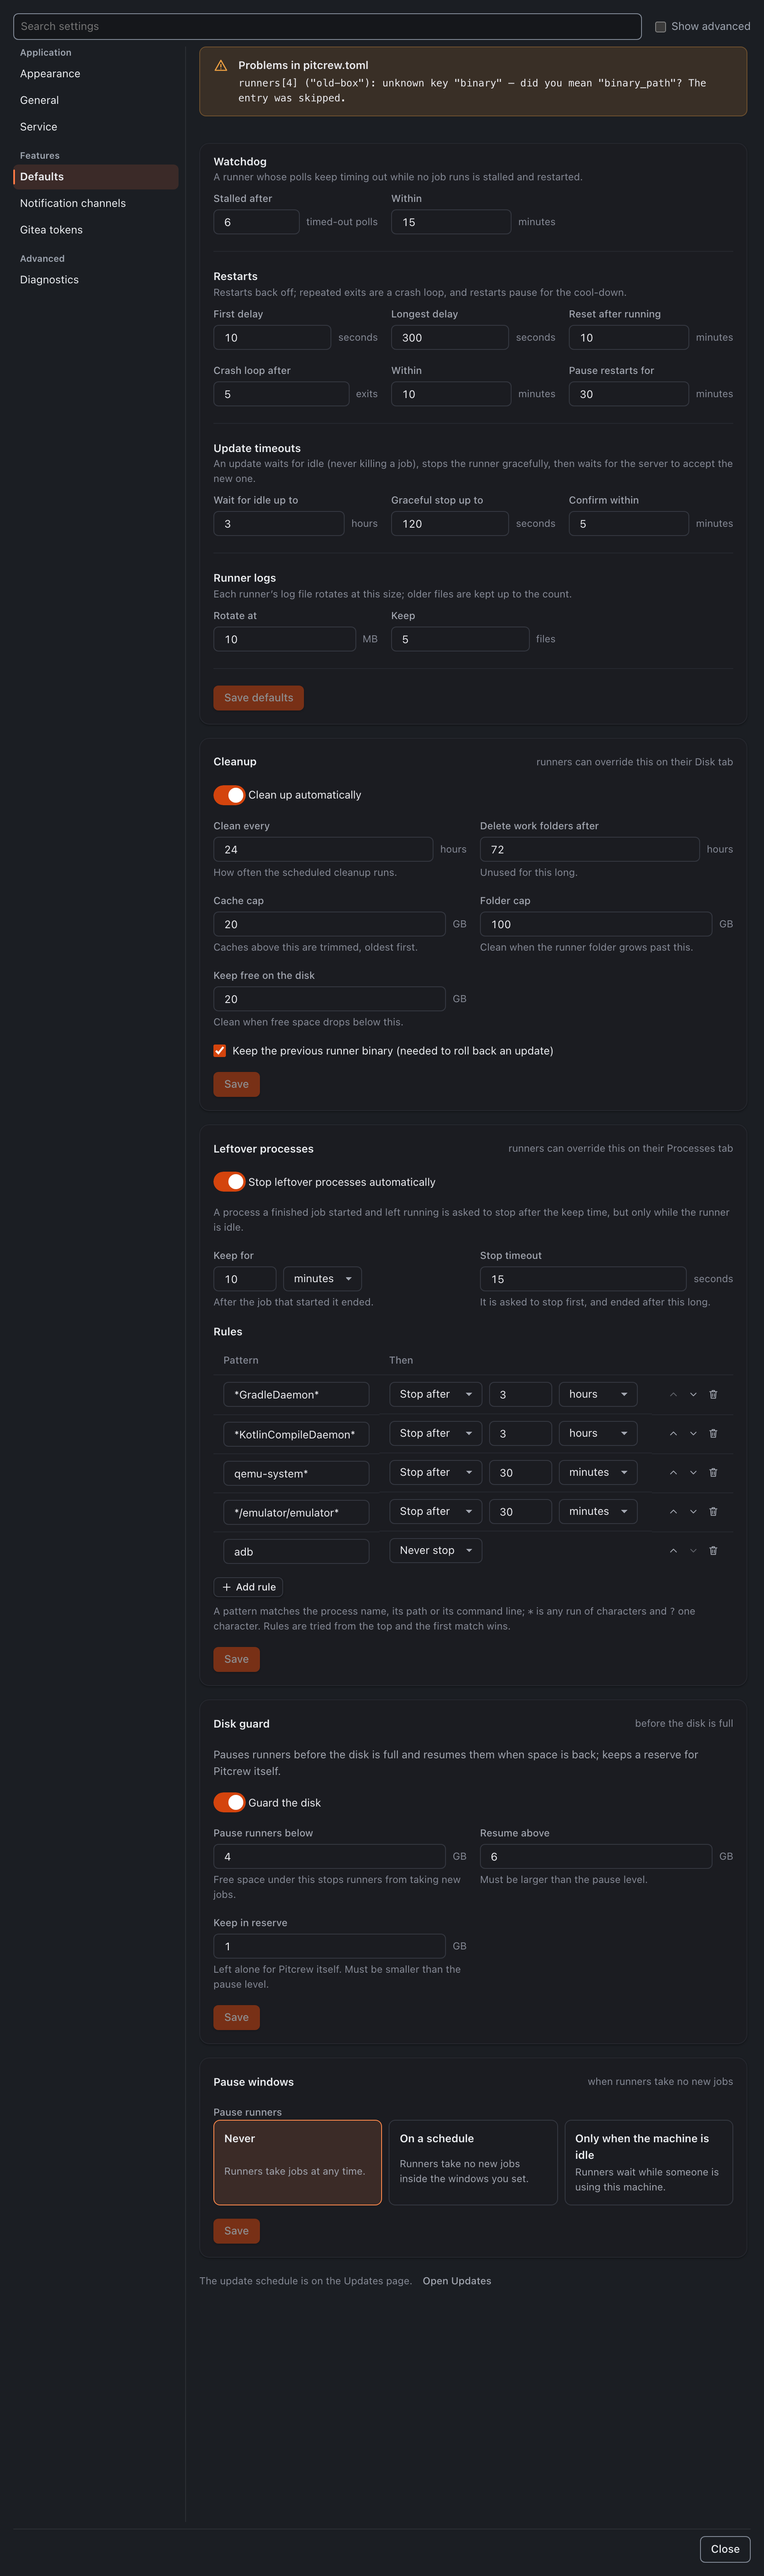
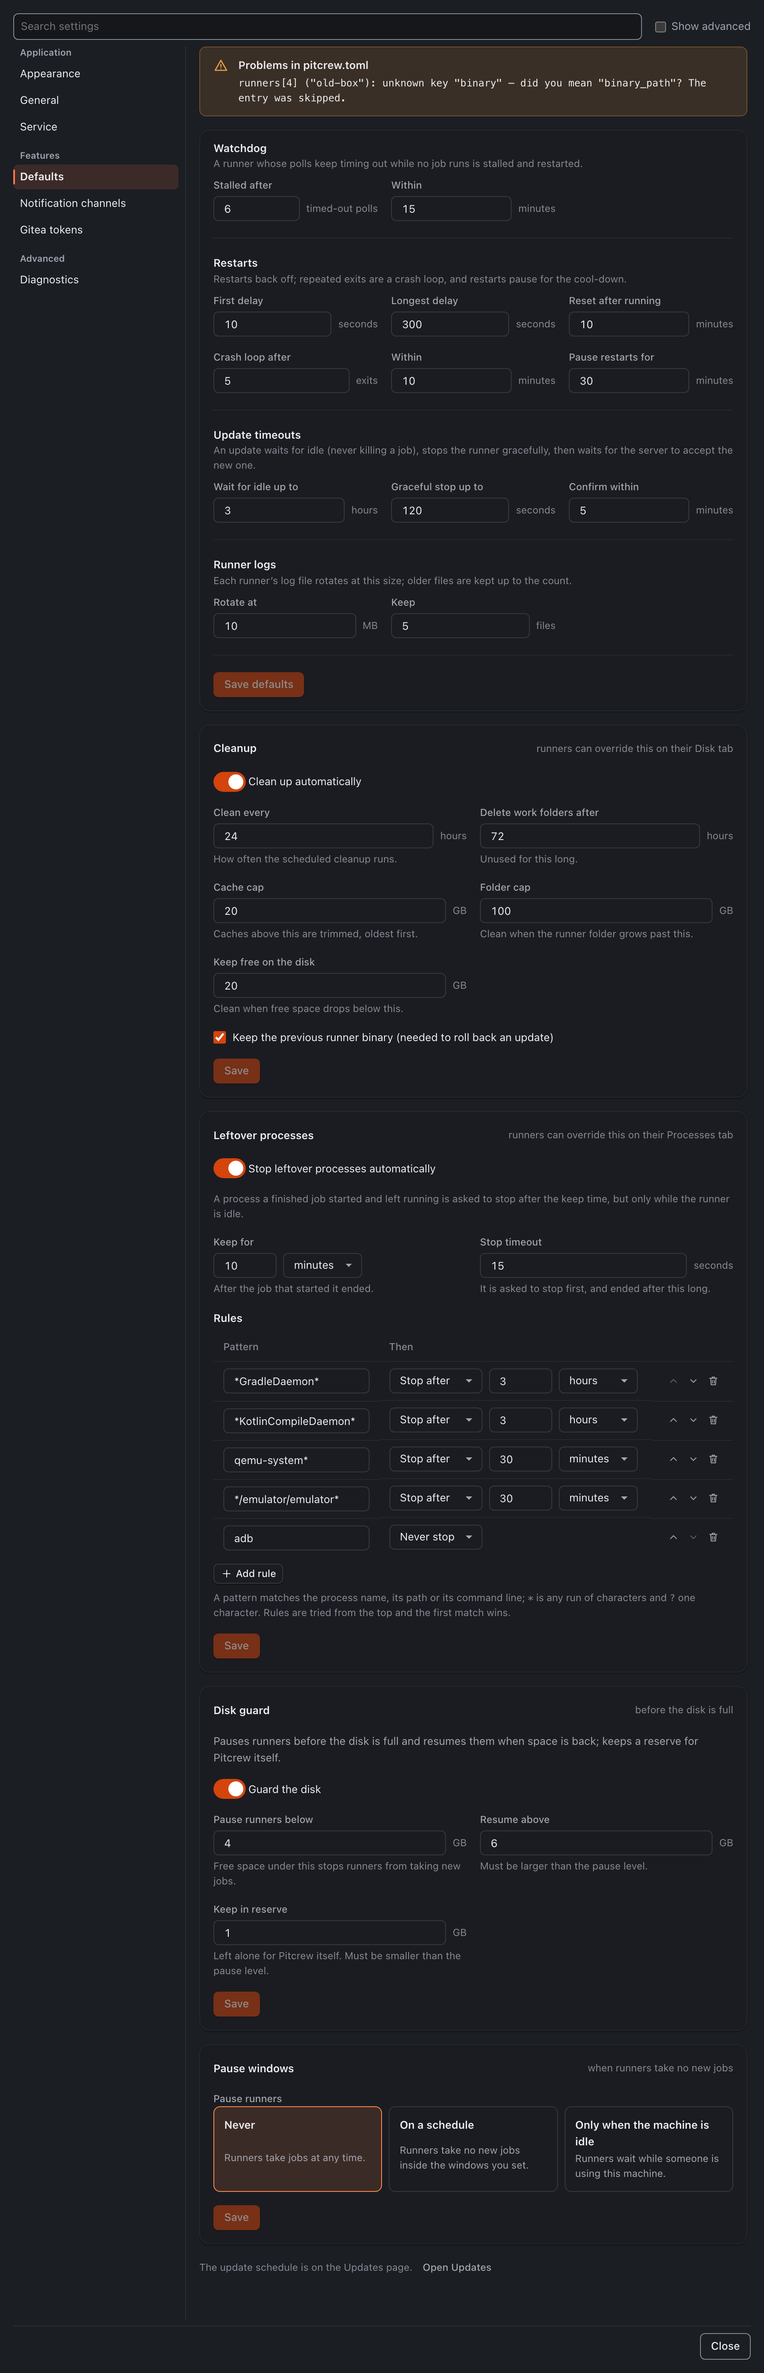
docs(pitcrew): the Defaults shot is fitted to its content; its captions say what it shows

diff --git a/apps/pitcrew/app/e2e/screenshots.spec.ts b/apps/pitcrew/app/e2e/screenshots.spec.ts
@@ -26,12 +26,12 @@ interface Shot {
  * Waits until the page has all its content: the main scroller's height is the same on several looks in a row (a runner's tab
  * fills in after its data arrives and a skeleton is not always on screen), so the whole page is what `fullPage: 'main'` measures.
  */
-async function contentSettled(page: Page): Promise<void> {
+async function contentSettled(page: Page, selector?: string): Promise<void> {
   let last = -1;
   let same = 0;
   await expect
     .poll(async () => {
-      const h = await page.evaluate(() => document.querySelector('[data-pd-region=main]')?.scrollHeight ?? 0);
+      const h = await page.evaluate((sel) => (sel ? document.querySelector(sel)?.getBoundingClientRect().height : document.querySelector('[data-pd-region=main]')?.scrollHeight) ?? 0, selector);
       same = h === last ? same + 1 : 0;
       last = h;
       return same >= 4;
@@ -77,10 +77,10 @@ const SHOTS: Shot[] = [
   { name: 'empty', path: '/', query: 'mock=empty' },
 ];
 
-/** Settings pages (a window of the shell at its declared 920 x 680; the long ones in a taller window so the whole page shows). */
-const SETTINGS: { name: string; page: string; height?: number }[] = [
+/** Settings pages (a window of the shell at its declared 920 x 680; a long one is fitted to its content, as the shell fits a window, so the whole page shows and nothing is empty). */
+const SETTINGS: { name: string; page: string; fit?: string }[] = [
   { name: 'settings', page: 'pc.general' },
-  { name: 'settings-defaults', page: 'pc.defaults', height: 3100 },
+  { name: 'settings-defaults', page: 'pc.defaults', fit: 'pc-defaults-section' },
   { name: 'settings-tokens', page: 'pc.tokens' },
   { name: 'settings-channels', page: 'pc.channels' },
 ];
@@ -110,9 +110,20 @@ for (const theme of ['dark', 'light'] as const) {
 
     for (const w of SETTINGS) {
       test(w.name, async ({ page, app }) => {
-        await page.setViewportSize({ width: 920, height: w.height ?? 680 });
+        await page.setViewportSize({ width: 920, height: w.fit ? 6000 : 680 });
         await app.dialogs.openWindow('pd.settings', { page: w.page });
         await app.dialogs.loaded();
+        if (w.fit) {
+          await expect(page.locator(w.fit)).toBeVisible();
+          await contentSettled(page, w.fit);
+          // The page's own height plus what is above it (search) and below it (the Close row): measured, not guessed.
+          const height = await page.locator(w.fit).evaluate((el) => {
+            const close = document.querySelector('[data-testid=dialog-shell-close], .pd-footer, footer');
+            const below = close ? window.innerHeight - close.getBoundingClientRect().top : 90;
+            return Math.ceil(el.getBoundingClientRect().bottom + 24 + below);
+          });
+          await page.setViewportSize({ width: 920, height });
+        }
         await captureScreen(page, join(OUT, theme, `${w.name}.png`));
       });
     }

diff --git a/apps/pitcrew/README.md b/apps/pitcrew/README.md
@@ -107,7 +107,7 @@ Taken against the mock backend with invented data (1440 x 900 at 2x; `docs/scree
 | --- | --- |
 | ![Dashboard](docs/screenshots/dark/dashboard.png) | ![Runner detail](docs/screenshots/dark/runner-detail.png) |
 | ![Insights](docs/screenshots/dark/insights.png) | ![Storage: prune preview](docs/screenshots/dark/storage-prune.png) |
-| ![Activity: jobs and their outcomes](docs/screenshots/dark/activity.png) | ![Settings, Defaults: watchdog, cleanup, leftover processes, disk guard and pause windows](docs/screenshots/dark/settings-defaults.png) |
+| ![Activity: jobs and their outcomes](docs/screenshots/dark/activity.png) | ![Settings, Defaults: watchdog, cleanup, leftover processes, disk guard and pause windows (the demo data adds a "Problems in pitcrew.toml" warning)](docs/screenshots/dark/settings-defaults.png) |
 | ![Notification channels](docs/screenshots/dark/settings-channels.png) | ![Runner updates](docs/screenshots/dark/runner-updates.png) |
 
 **Light**
@@ -116,7 +116,7 @@ Taken against the mock backend with invented data (1440 x 900 at 2x; `docs/scree
 | --- | --- |
 | ![Dashboard](docs/screenshots/light/dashboard.png) | ![Runner detail](docs/screenshots/light/runner-detail.png) |
 | ![Insights](docs/screenshots/light/insights.png) | ![Storage: prune preview](docs/screenshots/light/storage-prune.png) |
-| ![Activity: jobs and their outcomes](docs/screenshots/light/activity.png) | ![Settings, Defaults: watchdog, cleanup, leftover processes, disk guard and pause windows](docs/screenshots/light/settings-defaults.png) |
+| ![Activity: jobs and their outcomes](docs/screenshots/light/activity.png) | ![Settings, Defaults: watchdog, cleanup, leftover processes, disk guard and pause windows (the demo data adds a "Problems in pitcrew.toml" warning)](docs/screenshots/light/settings-defaults.png) |
 | ![Notification channels](docs/screenshots/light/settings-channels.png) | ![Runner updates](docs/screenshots/light/runner-updates.png) |
 
 ## Quick start

diff --git a/apps/pitcrew/docs/features.md b/apps/pitcrew/docs/features.md
@@ -116,7 +116,7 @@ covers installing, registering runners and everyday use ([macOS](macos.md), [Lin
 
 ## Holds: low-disk guard and pause windows
 
-![Settings, Defaults: watchdog, cleanup, leftover processes, disk guard and pause windows](screenshots/dark/settings-defaults.png)
+![Settings, Defaults, with the disk guard and pause windows](screenshots/dark/settings-defaults.png)
 
 - **Low-disk guard** ([ADR 0013](adr/0013-holds-low-disk-guard-and-pause-windows.md)). Below a free-space threshold
   (default 4 GB) Pitcrew drains the runners (the job in progress finishes, no new ones start) and resumes them by itself
